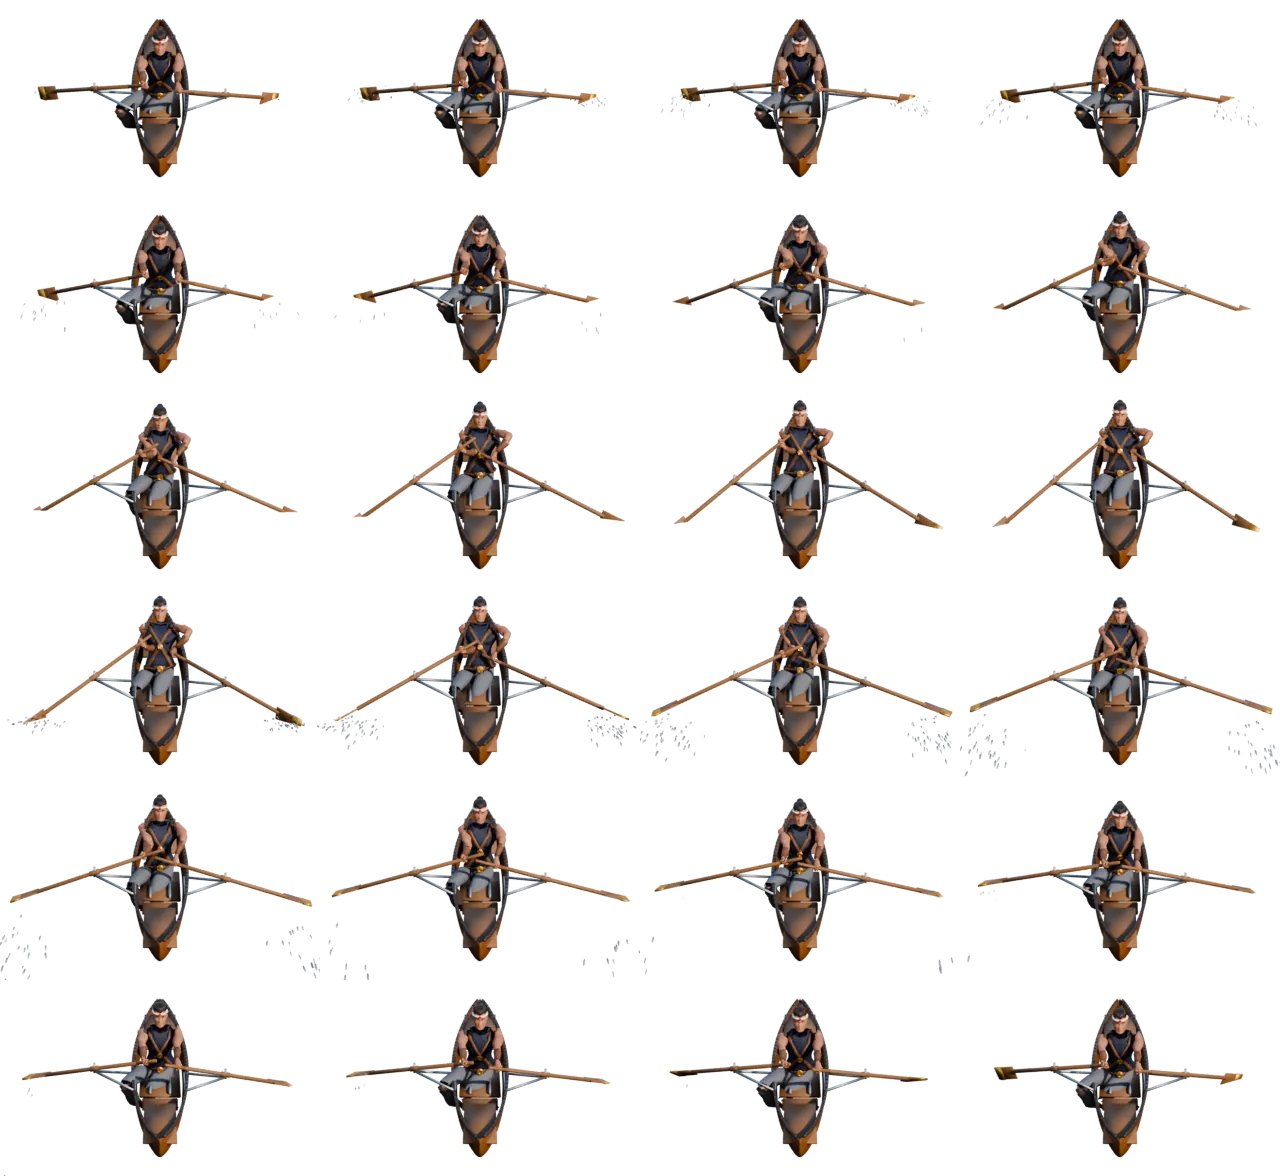
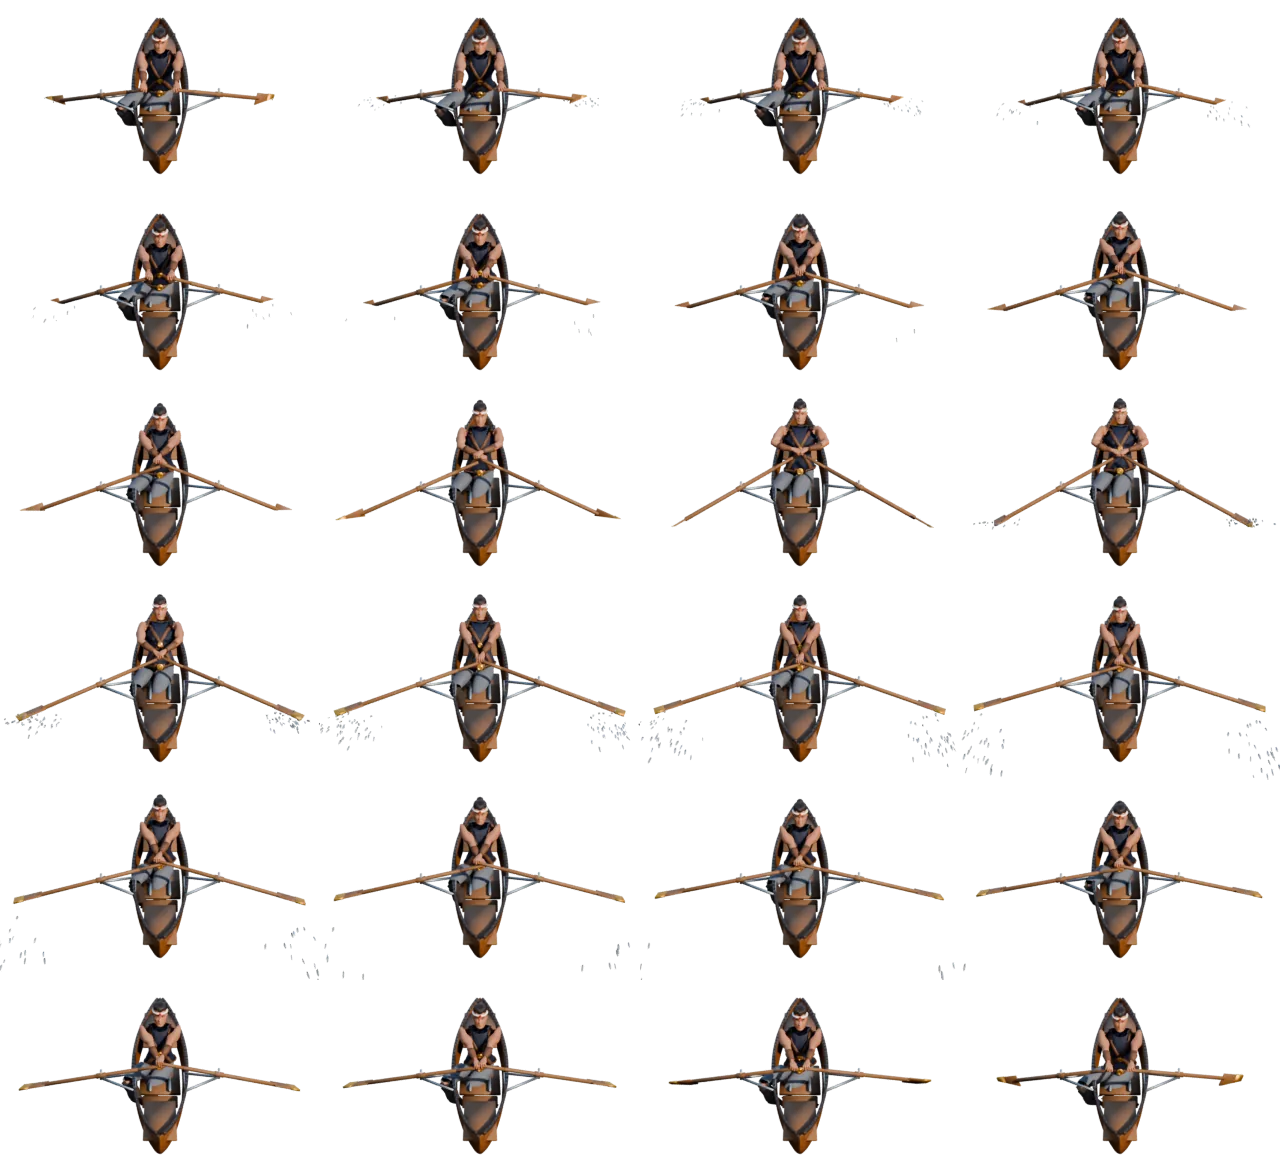
Remeros realistas en la carrera: atlas de las cinco clases con la biomecánica aprobada
Claude-Session: https://claude.ai/code/session_01YU6HPLHeBifvYsAm3kqgso

diff --git a/src/carrera.js b/src/carrera.js
@@ -504,7 +504,7 @@ const PIEL = '#E2B48C';
 // del render en ese punto. Se descargan al pintar el primer bote de esa clase; mientras, se dibuja el bote vectorial.
 export const REMEROS_ATLAS = {
   '3d': { w: 320, h: 196, cols: 4, n: 24, ancla: [160.0, 118.7], ppm: 81.93 },
-  '2d': { w: 356, h: 251, cols: 4, n: 24, ancla: [148.2, 123.0], ppm: 60.0 },
+  '2d': { w: 356, h: 251, cols: 4, n: 24, ancla: [143.4, 123.0], ppm: 60.0 },
 };
 // La barca de Blender mide 5,4 m: de la popa al escálamo 1,89 m y del escálamo a la proa 3,51 m.
 const BARCA_REAL = { largo: 5.4, proa: 3.51 };

diff --git a/src/version.js b/src/version.js
@@ -1,2 +1,2 @@
 // Versión de la app: la misma que la caché del service worker (sw.js). Súbela al publicar cambios.
-export const VERSION = '0.54.1';
+export const VERSION = '0.55.0';

diff --git a/CHANGELOG.md b/CHANGELOG.md
@@ -2,6 +2,14 @@
 
 Lo que cambia en cada versión de Rower. La versión de la app vive en `src/version.js`; esta lista empieza siempre por esa versión (lo comprueba `pruebas/version.test.mjs`).
 
+## 0.55.0 · 2026-11-04
+
+Botes, remeros y remos realistas en la carrera.
+
+- En la carrera 2D y 3D, tu bote y los rivales llevan el remero, la barca y los remos realistas de su clase, renderizados en Blender: vikingo, pirata (pañuelo rojo y barba negra), samurái (kimono índigo y hachimaki), polinesio (pareo y collar de flores) y romano (túnica roja y casco de bronce con cresta). Cada barca lleva la madera y la franja de su clase; mástiles, velas y adornos se siguen dibujando encima.
+- La palada se ve como en un bote de dos remos de verdad, revisada con el entrenador: brazos rectos mientras empujan las piernas, el tronco abre cuando las manos pasan las rodillas y los codos se doblan al final, por detrás del tronco y a la altura del mango; las manos agarran el puño de su remo, se cruzan a mitad de palada y la muñeca va plana. En la recuperación, brazos, tronco y asiento, por ese orden, y la pala se pluma al salir del agua.
+- Las imágenes de cada clase se descargan la primera vez que sale un bote de esa clase (mientras, se ve el bote dibujado de antes); las de tu clase se guardan para usarlas sin conexión.
+
 ## 0.54.1 · 2026-11-04
 
 - La app pesa ~730 KB menos al instalarse: solo se precargan las miniaturas de la tienda y el fiordo gratis. Cada paisaje de pago (la laguna y los cinco de la colección) se descarga al comprarlo, y al abrir la app si ya lo tenías, para correr sin conexión.

diff --git a/README.md b/README.md
@@ -155,8 +155,11 @@ actualización de firmware (`1530`) ni en el servicio `1400`, que solo escucha p
 El diseño de la interfaz sigue la skill [ui-ux-pro-max](https://github.com/nextlevelbuilder/ui-ux-pro-max-skill) (MIT), incluida en `.claude/skills/`.
 
 
-El pipeline experimental del vikingo en 3D (`tools/blender/`, no se usa en la app) parte de la malla base, el
-esqueleto y los ojos de [MakeHuman](https://makehumancommunity.org) (CC0) y optimiza con [glTF Transform](https://gltf-transform.dev) (MIT).
+El vikingo realista (`tools/blender/`) parte de la malla base, el esqueleto y los ojos de
+[MakeHuman](https://makehumancommunity.org) (CC0) y optimiza con [glTF Transform](https://gltf-transform.dev) (MIT). Los
+remeros de la carrera 2D y 3D salen de `tools/blender/remo_agua`: `remo_agua.py --clase C --paso 24 --sprite --remo-corto`
+con la cámara `carrera3d` o `cenital` (y `clases.py` para la ropa y la barca de cada clase), y `atlas_carrera.py` los
+empaqueta en `assets/carrera/remero{2d,3d}_<clase>.webp`.
 
 El formato de los mensajes se tomó como referencia del proyecto
 [qdomyos-zwift](https://github.com/cagnulein/qdomyos-zwift). El código de esta app es propio.
